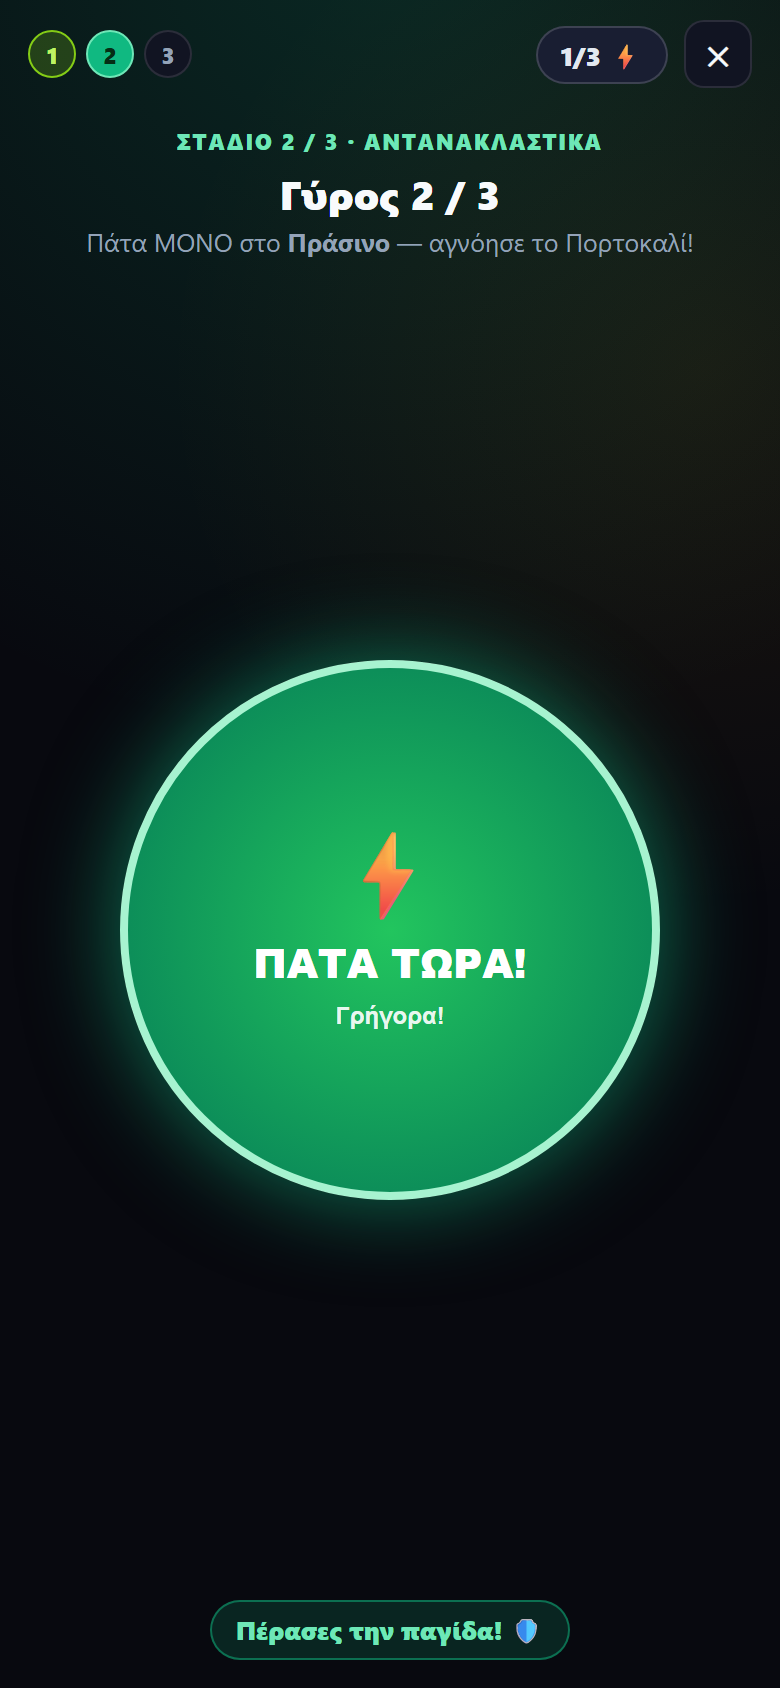
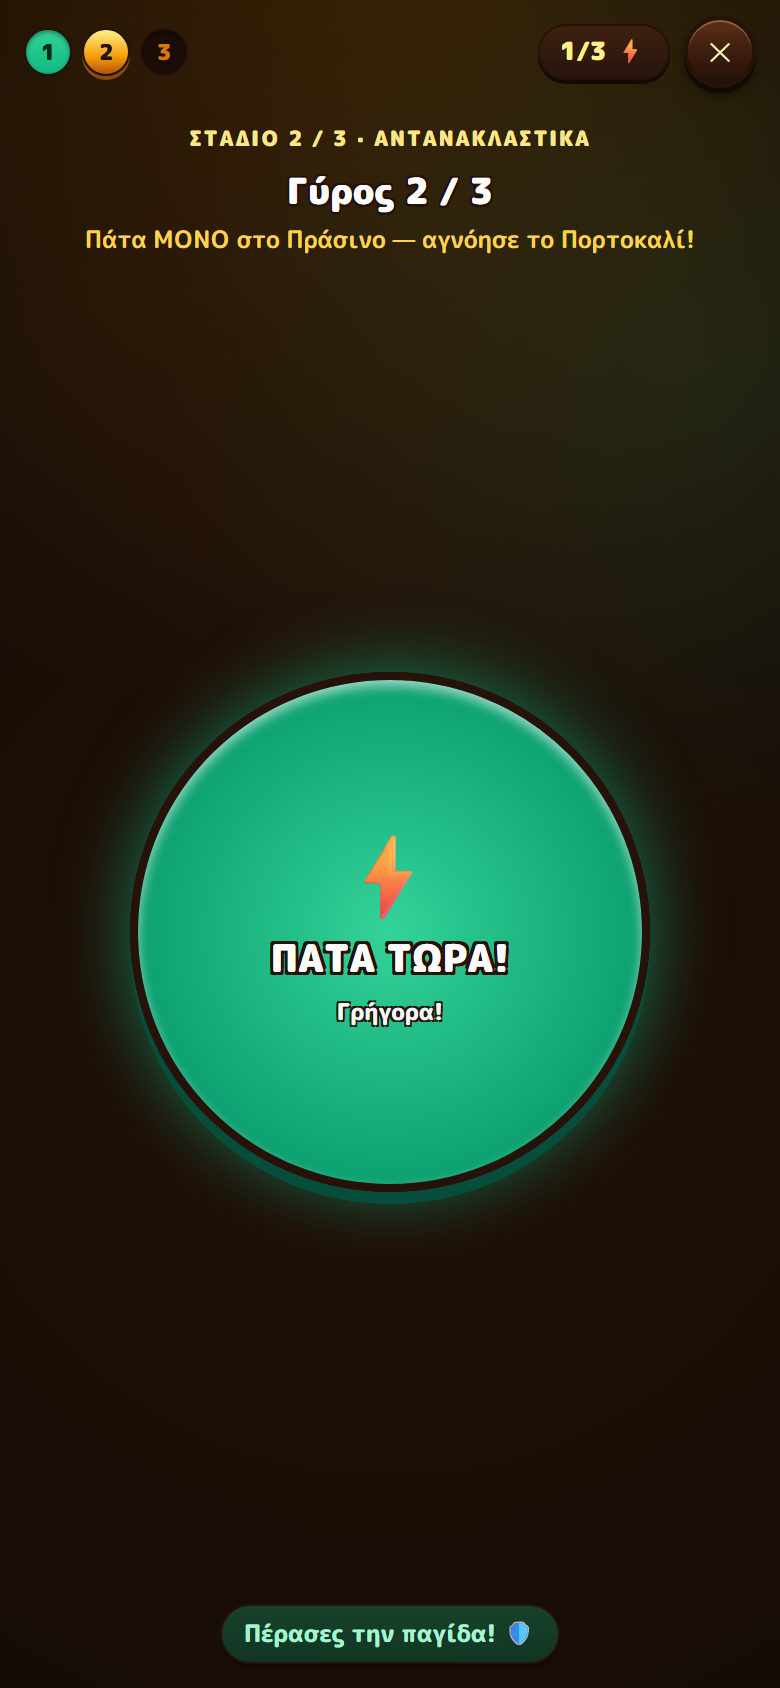
release(v1.1.0): bouncy cartoon 3d ui, screenshots and version.json

diff --git a/CHANGELOG.md b/CHANGELOG.md
@@ -1,11 +1,17 @@
 # 📜 Changelog — Είσαι Νηφάλιος; (Sober Check)
 
-## v1.0.0 (2026-11-20)
+## v1.1.0 (2026-11-22)
+* 🎨 **Bouncy Cartoon 3D UI Overhaul (Pub Bar Wood & Brass 2γ):** Πλήρης αναβάθμιση του UI σε στυλ Gold & Goblins με βαθύ ξύλο μπάρας/μαόνι, μπρούτζινα & χρυσά bevels, και 3D σκαλιστά panels.
+* 🔤 **Offline Greek Cartoon Font (`GameDisplay`):** Ενσωμάτωση offline γραμματοσειράς `M PLUS Rounded 1c` (700, 800, 900) για ελληνικά και λατινικά, με παχύ cartoon περίγραμμα (`text-shadow` 4 κατευθύνσεων & canvas `GameDisplay`).
+* ✨ **22 Baked 3D Cartoon Icons (160×160 .webp):** Αντικατάσταση όλων των emojis σε HUD, κάψουλες, preview cards και κουμπιά με καθαρά 3D cartoon εικονίδια με σκούρο περίγραμμα `#261209`.
+* 🔘 **Glossy 3D Pillow Buttons & Elevated Hero CTA:** 3D pillow κουμπιά με λευκή αντανάκλαση, παχύ κάτω bevel και press animation. Υπερυψωμένο CTA κουμπί εκκίνησης με προεξέχον εικονίδιο μπύρας.
+* 📐 **Compact Above-The-Fold Layout:** Αυστηρή βελτιστοποίηση ώστε το αποτέλεσμα, η cross-promo κάρτα και τα κύρια κουμπιά δράσης να χωρούν άψογα εντός της οθόνης κινητού (<= 844px) χωρίς vertical scroll.
 
-- **3-Stage Interactive Party Test (~25″):**
+## v1.0.0 (2026-11-20)
+* **3-Stage Interactive Party Test (~25″):**
   1. **Ισορροπία Φυσαλίδας (5″):** Κρατάς τη φυσαλίδα μέσα στον πράσινο στόχο με γυροσκόπιο (`DeviceOrientationEvent`) ή δάχτυλο.
   2. **Αντανακλαστικά + Παγίδα Πορτοκαλί (3 γύροι):** Μέτρηση χρόνου αντίδρασης (ms) σε πράσινα σήματα + αιφνιδιαστική πορτοκαλί παγίδα που σε τιμωρεί αν πατήσεις.
   3. **Γλωσσοδέτης Παρέας (4″):** 8 ελληνικοί γλωσσοδέτες με ζωντανό spectrum visualizer μικροφώνου ή άμεσο ταξινομημένο tap 4 λέξεων.
-- **9:16 Story Κάρτα «Πιστοποιητικό Νηφαλιότητας»:** Αυτόματη δημιουργία 1080×1920 PNG με σκορ 0–100, εικονικό χιουμοριστικό BAC (`0.03‰–2.20‰`), rank & roast, με native Android αποθήκευση στο Gallery (`Pictures/EisaiNifalios`) και share chooser.
-- **Solo & Παρέα (2–6 άτομα):** Pass-and-play λίστα παικτών με τελική κατάταξη *🛡 Κρατάει Κλειδιά* vs *🚕 Παίρνει Ταξί*.
-- **Offline PWA & Android Update Checker:** Πλήρης λειτουργία εκτός σύνδεσης + έλεγχος για νεότερες εκδόσεις APK.
+* **9:16 Story Κάρτα «Πιστοποιητικό Νηφαλιότητας»:** Αυτόματη δημιουργία 1080×1920 PNG με σκορ 0–100, εικονικό χιουμοριστικό BAC (`0.03‰–2.20‰`), rank & roast, με native Android αποθήκευση στο Gallery (`Pictures/EisaiNifalios`) και share chooser.
+* **Solo & Παρέα (2–6 άτομα):** Pass-and-play λίστα παικτών με τελική κατάταξη *🛡 Κρατάει Κλειδιά* vs *🚕 Παίρνει Ταξί*.
+* **Offline PWA & Android Update Checker:** Πλήρης λειτουργία εκτός σύνδεσης + έλεγχος για νεότερες εκδόσεις APK.
